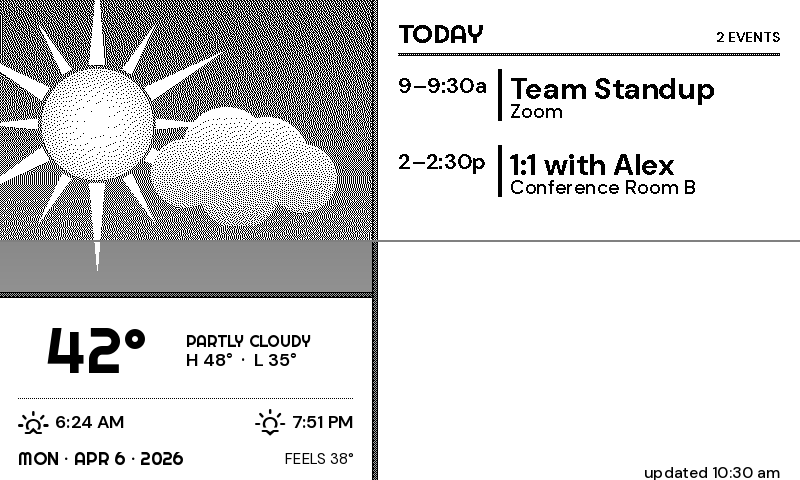
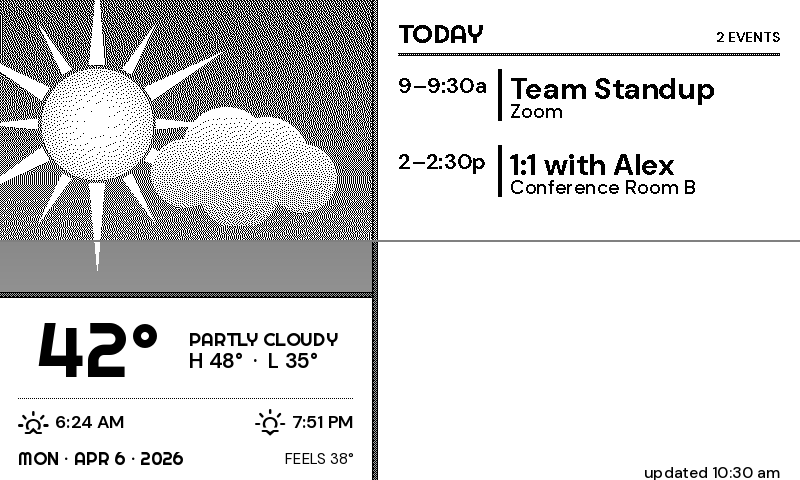
Set the halftone_agenda weather band larger
The temperature numeral goes 64 -> 78 pt, with the condition and
high/low sized to match (16 -> 19 and 18 -> 21). Most of this came
free: TEMP_COL_W reserved 158 px for a numeral that only needed 133,
so growing it costs the condition column just 3 px.

78 pt is the ceiling, not a preference. It is the largest size at which
the widest OWM phrase still wraps as "HEAVY INTENSITY / RAIN" in the
column that's left; at 82 pt it breaks as "HEAVY / INTENSITY RAIN" and
at 86 pt it needs a third line the zone doesn't have. Tests pin the
three bounds that decide it — the 3-digit numeral against its column,
the widest phrase against two lines, and the widest high/low against
the stack.

Also fixes a bug the larger type made easy to see: a condition needing
more than two lines had the overflow dropped, so "thunderstorm with
light drizzle" rendered as a complete-looking "THUNDERSTORM WITH
LIGHT". The overflow now folds into the second line and ellipsizes.

Claude-Session: https://claude.ai/code/session_01B9xgTmJ1G2ewnUiMBvorMa

Changed region(s): [[0.0312, 0.6562, 0.4375, 0.8125]]

diff --git a/tests/test_halftone_agenda_theme.py b/tests/test_halftone_agenda_theme.py
@@ -17,11 +17,15 @@ from src.render.components.halftone_agenda_panel import (
     AGENDA_X,
     ART_W,
     BAND_Y,
+    COND_PT,
     DIVIDER_W,
     FOOTER_H,
     HERO_H,
+    HIGH_LOW_PT,
     RULE_H,
     SCENE_SCALE,
+    TEMP_COL_W,
+    TEMP_PT,
     _clock,
     _draw_time_cell,
     _fmt_temp,
@@ -453,6 +457,59 @@ class TestPaneSeparation:
             for y in range(480 - FOOTER_H, 480)
         ]
         assert any(px[x, y] == 0 for x, y in footer_band)
+
+
+class TestWeatherBandType:
+    """The band's display type is sized to the room it actually has."""
+
+    def _probe(self):
+        from PIL import ImageDraw
+
+        return ImageDraw.Draw(Image.new("L", (10, 10)))
+
+    def test_three_digit_temperature_fits_its_column(self):
+        # The column is a fixed reservation so the condition stack keeps its
+        # width whatever the reading is; a numeral wider than it would push
+        # into that stack.
+        style = load_theme("halftone_agenda").style
+        box = self._probe().textbbox((0, 0), "108°", font=style.font_title(TEMP_PT))
+        assert box[2] - box[0] <= TEMP_COL_W
+
+    def test_widest_condition_still_wraps_to_two_lines(self):
+        # 19 pt is the largest size at which the widest OWM phrase breaks as
+        # "HEAVY INTENSITY / RAIN"; past it the band needs a third line.
+        from src.render.components.halftone_agenda_panel import ART_PAD_X, TEMP_COL_GAP
+        from src.render.primitives import wrap_lines
+
+        style = load_theme("halftone_agenda").style
+        stack_w = (ART_W - ART_PAD_X) - (ART_PAD_X + TEMP_COL_W + TEMP_COL_GAP)
+        wrapped = wrap_lines("HEAVY INTENSITY RAIN", style.font_section_label(COND_PT), stack_w)
+        assert len(wrapped) <= 2, wrapped
+
+    def test_high_low_fits_beside_the_numeral(self):
+        from src.render.components.halftone_agenda_panel import ART_PAD_X, TEMP_COL_GAP
+
+        style = load_theme("halftone_agenda").style
+        stack_w = (ART_W - ART_PAD_X) - (ART_PAD_X + TEMP_COL_W + TEMP_COL_GAP)
+        box = self._probe().textbbox(
+            (0, 0), "H 108° · L 100°", font=style.font_semibold(HIGH_LOW_PT)
+        )
+        assert box[2] - box[0] <= stack_w
+
+    def test_overlong_condition_is_ellipsized_not_silently_cut(self):
+        # "thunderstorm with light drizzle" wraps to three lines; folding the
+        # overflow into line two lets it ellipsize, so it reads as cut off
+        # rather than as a complete but wrong "THUNDERSTORM WITH LIGHT".
+        data = _data_for()
+        assert data.weather is not None
+        data.weather.current_description = "thunderstorm with light drizzle"
+        band = _render(data=data).convert("L").crop((0, BAND_Y, ART_W, 480))
+        with_long = _ink_count(band)
+        data.weather.current_description = "thunderstorm with light"
+        band = _render(data=data).convert("L").crop((0, BAND_Y, ART_W, 480))
+        # The ellipsized version must differ from the phrase it would otherwise
+        # be mistaken for.
+        assert with_long != _ink_count(band)
 
 
 class TestEventTimes:

diff --git a/src/render/components/halftone_agenda_panel.py b/src/render/components/halftone_agenda_panel.py
@@ -104,9 +104,19 @@ _DATE_ROW_H = 32
 # Fixed reservation for the temperature numeral, so the condition column keeps
 # its width whether the reading is "8°" or "108°". Same trick as halftone's
 # TEMP_COL_W, at this pane's smaller display size.
-TEMP_PT = 64
-TEMP_COL_W = 158
+#
+# The sizes below are the largest the band will take. 78 pt sets "108°" at
+# 153 px, which leaves the condition column 165 px — just enough for the widest
+# OWM phrase ("heavy intensity rain") to wrap the way it does now, as
+# "HEAVY INTENSITY / RAIN". At 82 pt it breaks as "HEAVY / INTENSITY RAIN" and
+# at 86 pt it needs three lines, which overruns the zone. The column reserves
+# 8 px past the numeral so a 3-digit reading never crowds the stack.
+TEMP_PT = 78
+TEMP_COL_W = 161
 TEMP_COL_GAP = 10
+# Condition and high/low, sized to match the numeral they sit beside.
+COND_PT = 19
+HIGH_LOW_PT = 21
 
 # Density tiers for the agenda column: (max_rows, row_h, time_w, time_pt,
 # title_pt, show_location). Tuned for this pane — 382 px of content width and
@@ -339,13 +349,20 @@ def _draw_weather_band(
     # rain") are exactly the ones worth reading in full.
     stack_x = left + TEMP_COL_W + TEMP_COL_GAP
     stack_w = max(20, right - stack_x)
-    cond_font = (style.font_section_label or style.font_bold)(16)
-    hl_font = style.font_semibold(18)
+    cond_font = (style.font_section_label or style.font_bold)(COND_PT)
+    hl_font = style.font_semibold(HIGH_LOW_PT)
 
     lines: list[tuple[str, ImageFont.FreeTypeFont]] = []
     if weather is not None:
         if weather.current_description:
-            for line in wrap_lines(weather.current_description.upper(), cond_font, stack_w)[:2]:
+            wrapped = wrap_lines(weather.current_description.upper(), cond_font, stack_w)
+            if len(wrapped) > 2:
+                # Fold the overflow into the second line rather than dropping
+                # it: draw_text_truncated then ellipsizes, so a phrase like
+                # "thunderstorm with light drizzle" reads as cut off instead of
+                # as a complete but wrong "THUNDERSTORM WITH LIGHT".
+                wrapped = [wrapped[0], " ".join(wrapped[1:])]
+            for line in wrapped:
                 lines.append((line, cond_font))
         lines.append((f"H {_fmt_temp(weather.high)}  ·  L {_fmt_temp(weather.low)}", hl_font))
     else:

diff --git a/CLAUDE.md b/CLAUDE.md
@@ -485,6 +485,7 @@ default to `None` and fall back gracefully so adding a new field never breaks ex
   - **Sun times are normalised once in the entry point** (`_sun_times`). OWM returns aware datetimes while `CalendarEvent.start`/`end` are naive local, and `agenda_day` compares the two — passing `weather.sunset` through raw raises `TypeError` on every real fetch.
   - **The density tiers are this pane's own** (`_DENSITY_TIERS`, five of them): the column is half as wide and half again as tall as `day_arc`'s, so reusing that table set 32-px rows in a 400-px pane. `agenda_metrics` picks by what fits, same as its `day_arc` counterpart. Row heights are sized to their type rather than stretched to fill the pane, and the list is top-justified under the rule — a stretch-to-fill pitch with the short list centred left two events floating in the middle of the pane, reading as a layout fault rather than a light day.
   - **Both typeset regions are hardened before the backend quantizes** (`skyart.harden_typeset` on the weather band and the agenda pane). Without it Floyd-Steinberg eats the antialiased glyph edges — the effect is small in pixel count (~500 px on the plate) and very visible on the panel. The illustration is deliberately outside both rects so it still dithers.
+  - **The weather band's display type is sized to the widest real content**, not chosen by eye: `TEMP_PT = 78` is the largest at which `"108°"` still fits `TEMP_COL_W` and the widest OWM phrase (`heavy intensity rain`) still wraps as `HEAVY INTENSITY / RAIN` in what's left; 82 pt breaks it as `HEAVY / INTENSITY RAIN` and 86 pt needs a third line. A phrase needing more than two lines has its overflow folded into line two so `draw_text_truncated` ellipsizes it — otherwise `thunderstorm with light drizzle` renders as a complete-looking `THUNDERSTORM WITH LIGHT`. Tests pin all three bounds.
   - **Rows show a time range**, via `compact_range` (elides a shared meridiem: `12:30p`+`2p` → `12:30–2p`, which is what makes it fit) and `event_times` (all-day and past-midnight events fall back to the start alone). The two densest tiers carry time columns wider than their type needs so the worst case (`11:30a–1:15p`) fits on one line — their rows are too short to wrap, and unlike the roomy tiers they have title width to spare. Roomier tiers wrap instead, because widening there would cost a truncation on titles that fit today. A test asserts every tier can either fit or wrap the worst case, so no tier silently drops the end time.
   - **The pane encodes no state in the rendering.** The inverted "now" bar, the Bayer-screened elapsed rows and the next-up accent tick were all removed: each needs a large or dithered area of ink to survive the panel, and none does under partial refresh, where `WaveshareDisplay.show()` drives the panel with `epd.init_fast()` and a filled bar reads as charcoal. `+N more` and the `TOMORROW` dateline are plain ink for the same reason. Row treatment is now a pure function of the event, never of the clock — `tests/test_halftone_agenda_theme.py` pins that by rendering the same day at two times and comparing the pane byte for byte.
   - **Event marks bracket the row's type, not its pitch.** The roomiest tier sets 92-px rows so a two-event day breathes; a tick drawn to the full row height there reads as a column divider.

diff --git a/docs/themes.md b/docs/themes.md
@@ -268,7 +268,7 @@ Procedurally-drawn dithered weather plate evoking a 19th-century natural-history
 
 The split-plate variant of [`halftone`](#halftone): where `halftone` gives the whole width to the engraving and reduces the calendar to a single NEXT line, and [`day_arc`](#day_arc) turns the artwork itself into a time axis, this one cuts the plate down the middle — art and weather on the left, the day's events on the right.
 
-The **left pane** (372 px) carries the same procedural illustration, chosen from the current OWM icon code and recomposed for a narrower, nearly-square plate: the placements are mapped onto the pane while element sizes scale separately, so a partly-cloudy sun and its cloud stay a composed pair instead of collapsing into each other. A 6-px ordered-Bayer rule separates it from a typeset band holding the temperature numeral, the condition (wrapped to a second line rather than truncated) with high and low beside it, then a hairline rule, sunrise and sunset, and the date with the feels-like reading against the right margin.
+The **left pane** (372 px) carries the same procedural illustration, chosen from the current OWM icon code and recomposed for a narrower, nearly-square plate: the placements are mapped onto the pane while element sizes scale separately, so a partly-cloudy sun and its cloud stay a composed pair instead of collapsing into each other. A 6-px ordered-Bayer rule separates it from a typeset band holding the temperature numeral, the condition (wrapped to a second line rather than truncated) with high and low beside it, then a hairline rule, sunrise and sunset, and the date with the feels-like reading against the right margin. The numeral and the condition beside it are set as large as the band allows — the ceiling is the point where the widest OWM phrase would need a third line.
 
 A full-height vertical Bayer rule divides the panes. The **right pane** (422 px) is the calendar at the size a dedicated column allows: a TODAY header with the event count, then as many rows as fit at a legible size — five density tiers from two roomy rows with locations down to eleven dense ones, with `+N more` beyond that. Every row is set identically and carries its event's start and end time — as one elided range (`12:30–2p`) where the column allows, wrapped onto a second line where it doesn't, and the start alone for an all-day event or one running past midnight. Unlike [`day_arc`](#day_arc), this pane encodes no state in the rendering: the inverted "now" bar, the Bayer-screened elapsed rows and the next-up accent were all removed, because each needs a large or dithered area of ink to survive the panel and none does under partial refresh, where Waveshare's fast waveform leaves a filled bar reading as charcoal. After sunset, once every timed event has ended, the pane rolls over to tomorrow behind a plain `TOMORROW` dateline — the same two-part condition `day_arc` uses. An "updated" caption closes the bottom corner.
 

diff --git a/CHANGELOG.md b/CHANGELOG.md
@@ -8,6 +8,15 @@ The format is based on [Keep a Changelog](https://keepachangelog.com/).
 
 ### Added
 
+- **`halftone_agenda`'s weather band reads larger.** The temperature numeral
+  goes 64 → 78 pt with the condition and high/low sized to match (16 → 19 and
+  18 → 21). The column reservation was over-sized for the numeral it held, so
+  most of this came free; 78 pt is the ceiling at which the widest OWM phrase
+  still wraps to two lines.
+- A condition too long for two lines now ellipsizes instead of dropping its
+  tail, so `thunderstorm with light drizzle` no longer renders as a
+  complete-looking `THUNDERSTORM WITH LIGHT`.
+
 - **`halftone_agenda` rows show event end times.** Each row carries a range —
   `12:30–2p`, eliding the shared meridiem so it fits the time column — and
   falls back to a wrapped second line where the column is too narrow, or to
